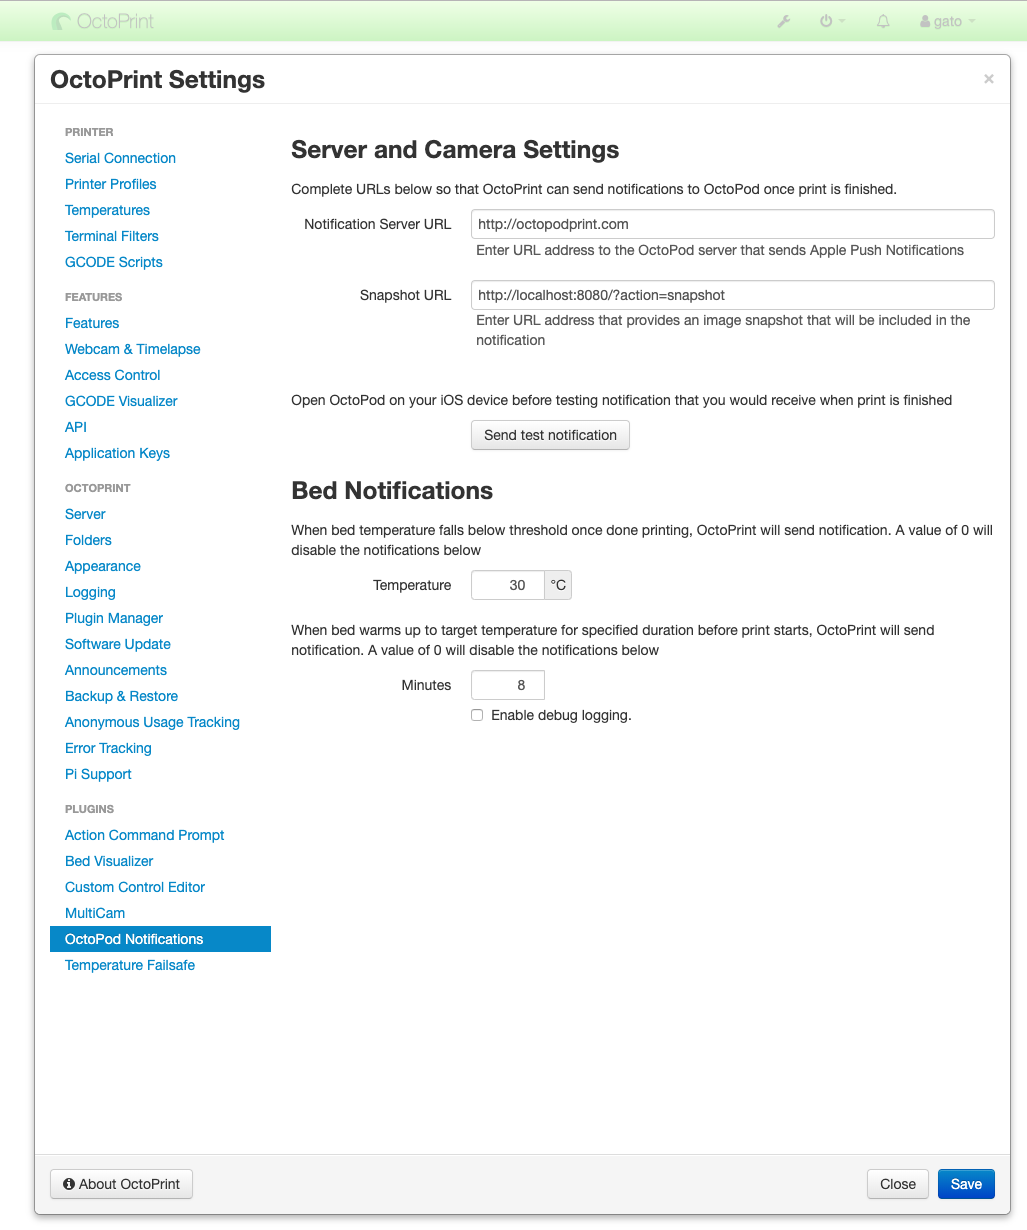
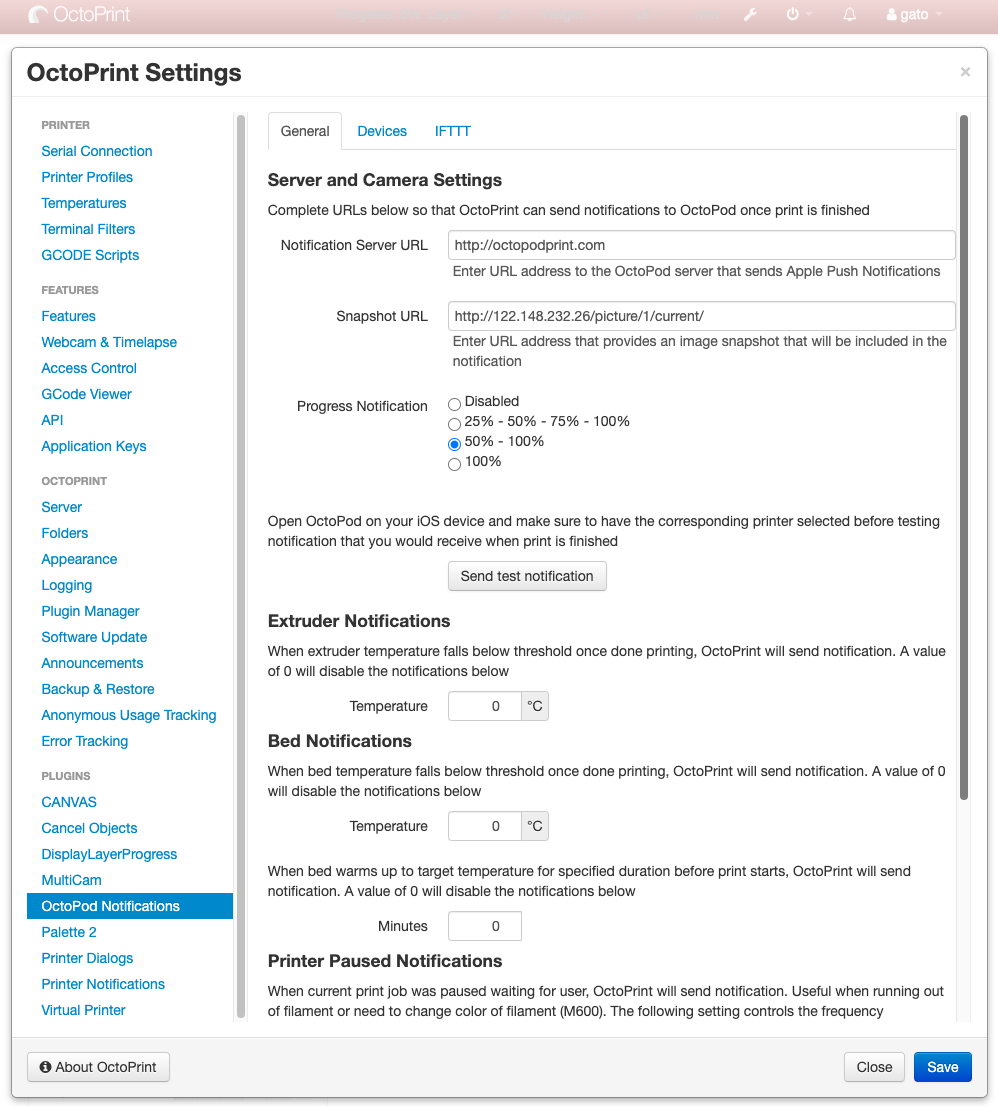
Updated OctoPod plugin with newest features and screenshots

Changed region(s): [[0.0, 0.0, 1.0, 1.0]]

diff --git a/_plugins/octopod.md b/_plugins/octopod.md
@@ -20,6 +20,7 @@ tags:
 - iOS
 - notifications
 - mmu
+- ifttt
 
 compatibility:
   python: ">=2.7,<4"
@@ -37,17 +38,21 @@ screenshots:
 - url: /assets/img/plugins/octopod/mmu_notification.png
   alt: MMU Notification
   caption: MMU Requires User Assistance
+- url: /assets/img/plugins/octopod/IFTTT.png
+  alt: IFTTT Configuration
+  caption: Events available for IFTTT
 
 featuredimage: /assets/img/plugins/octopod/print_finished.jpg
 
 ---
 
-This plugin sends immediate push notifications to your iOS devices when:
-1. Print finished (includes camera snapshot)
+This plugin sends immediate push notifications to your iOS devices or [IFTTT](https://ifttt.com/home) when:
+1. Print finished (includes camera snapshot) or at specific progress percentages
+1. Print reached specified layers (requires [DisplayLayerProgress plugin](https://plugins.octoprint.org/plugins/DisplayLayerProgress/))
 1. Bed warmed up to target temp for a period of time. Helps get smooth first layers
 1. Bed cooled down below specified threshold. Ideal to easily remove prints from bed
 1. Extruder cooled down below specified threshold. Ideal to know when to turn printer off
-1. Printer paused for user. This may happen when running out of filament or when doing manual multi color printing (M600) 
+1. Printer paused for user. This may happen when running out of filament or when doing manual multi color printing (M600)
 1. [Palette 2 / Pro](https://www.mosaicmfg.com/products/palette-2) encountered a problem while printing
 1. [MMU](https://shop.prusa3d.com/en/upgrades/183-original-prusa-i3-mk25smk3s-multi-material-2s-upgrade-kit-mmu2s.html#) requires user assistance (requires Prusa firmware)
 1. Firmware errors. Get security alerts like thermal runaway, probing failed, min temp error, max temp error, etc.
@@ -58,7 +63,7 @@ to control your printer from any iOS device then this plugin is a great addition
 never heard of [OctoPod](https://itunes.apple.com/us/app/octopod-for-octoprint/id1412557625?mt=8)
 before then you are in for a treat. Here are some of its features: multiple printers support,
 multiple cameras support including full screen with zoom in/out, control your printer using
-Siri or from your Apple Watch, temperature charts including temp variance. You can cancel any object
+Siri, your Apple Watch or your Apple TV, temperature charts including temp variance. You can cancel any object
 being printed since it has support for [Cancel object plugin](https://plugins.octoprint.org/plugins/cancelobject/).
 But that is not the only supported plugin, here are other supported plugins: [TPLink](https://plugins.octoprint.org/plugins/tplinksmartplug/),
 [PSU Control](https://github.com/kantlivelong/OctoPrint-PSUControl), [Domoticz](https://plugins.octoprint.org/plugins/domoticz/),
